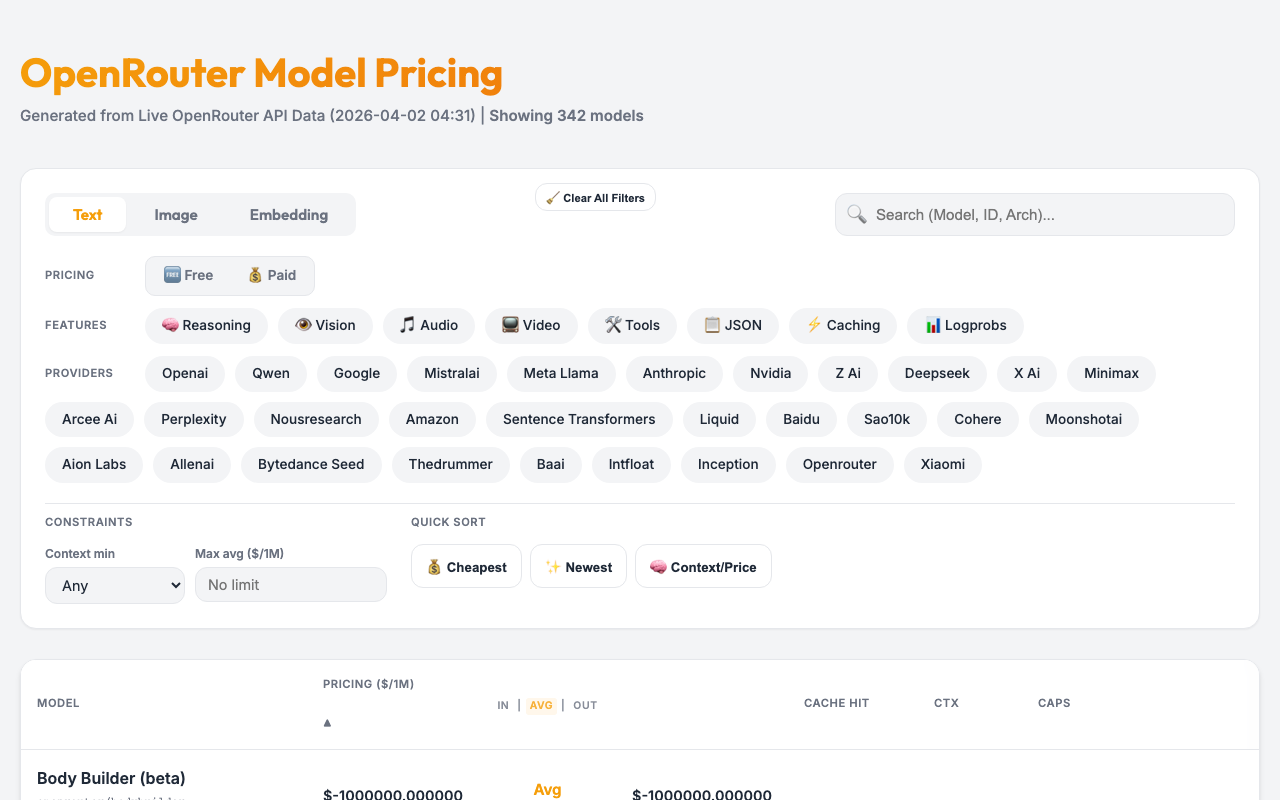
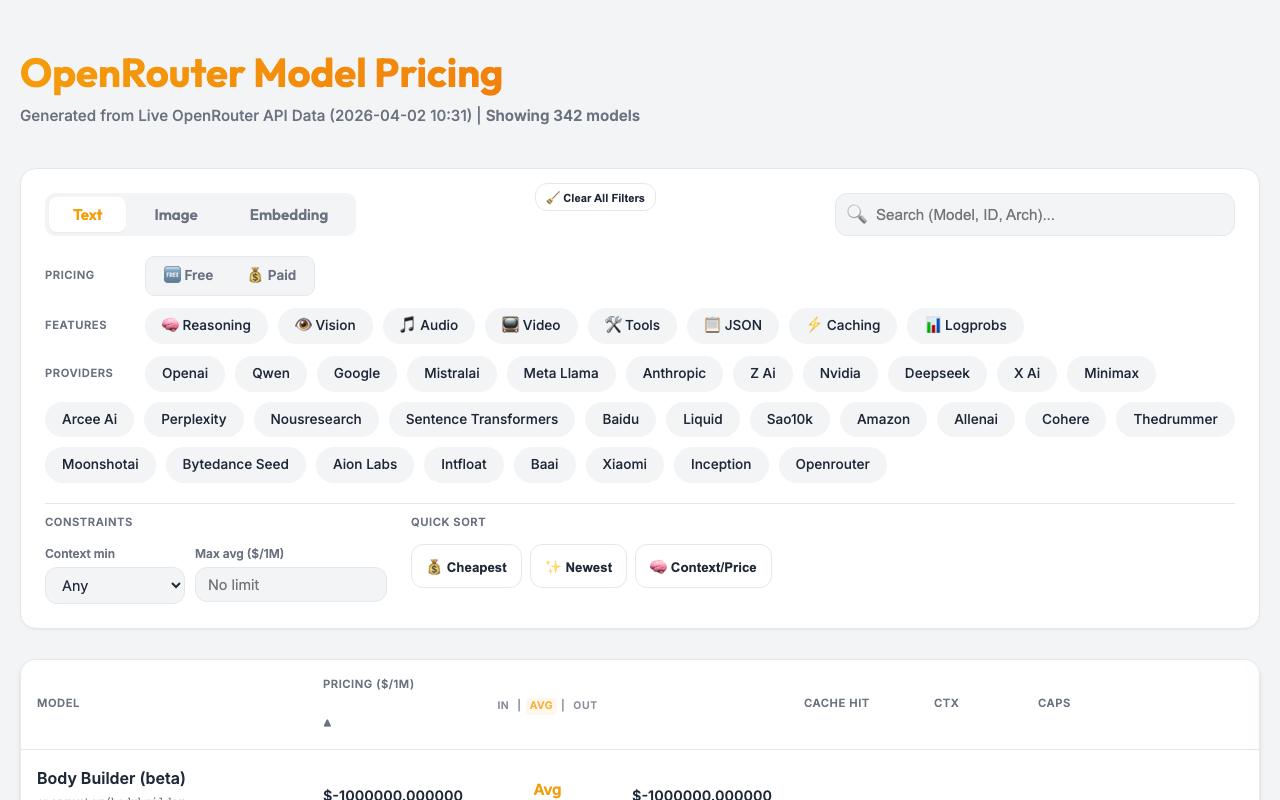
chore: automated pricing update (2026-04-02 10:31:20)
🔄 Changed Models (4): google/gemini-2.5-flash-lite-preview-09-2025, inception/mercury-coder, mistralai/mistral-small-24b-instruct-2501, moonshotai/kimi-k2.5

diff --git a/docs/index.html b/docs/index.html
@@ -634,7 +634,7 @@
     <div class="container">
         <header>
             <h1>OpenRouter Model Pricing</h1>
-            <div class="meta">Generated from Live OpenRouter API Data (2026-04-02 04:31)</div>
+            <div class="meta">Generated from Live OpenRouter API Data (2026-04-02 10:31)</div>
         </header>
 
         <div class="controls">
@@ -3264,13 +3264,13 @@
         "instruct_type": null
       },
       "pricing": {
-        "prompt": "0.0000004005",
-        "completion": "0.000001998",
-        "input_cache_read": "0.0000002025"
+        "prompt": "0.0000004",
+        "completion": "0.00000199",
+        "input_cache_read": "0.0000002"
       },
       "top_provider": {
         "context_length": 262144,
-        "max_completion_tokens": 262144,
+        "max_completion_tokens": 65535,
         "is_moderated": false
       },
       "per_request_limits": null,
@@ -7259,7 +7259,7 @@
       },
       "top_provider": {
         "context_length": 1048576,
-        "max_completion_tokens": 65536,
+        "max_completion_tokens": 65535,
         "is_moderated": false
       },
       "per_request_limits": null,
@@ -11562,7 +11562,7 @@
         "frequency_penalty": null
       },
       "knowledge_cutoff": "2025-01-31",
-      "expiration_date": null
+      "expiration_date": "2026-04-15"
     },
     {
       "id": "meta-llama/llama-guard-4-12b",
@@ -14293,7 +14293,6 @@
       "per_request_limits": null,
       "supported_parameters": [
         "frequency_penalty",
-        "logit_bias",
         "max_tokens",
         "min_p",
         "presence_penalty",
@@ -14302,8 +14301,6 @@
         "seed",
         "stop",
         "temperature",
-        "tool_choice",
-        "tools",
         "top_k",
         "top_p"
       ],
@@ -19606,7 +19603,7 @@
     }
   ]
 };
-        window.providerOptions = ['openai', 'qwen', 'google', 'mistralai', 'meta-llama', 'anthropic', 'nvidia', 'z-ai', 'deepseek', 'x-ai', 'minimax', 'arcee-ai', 'perplexity', 'nousresearch', 'amazon', 'sentence-transformers', 'liquid', 'baidu', 'sao10k', 'cohere', 'moonshotai', 'aion-labs', 'allenai', 'bytedance-seed', 'thedrummer', 'baai', 'intfloat', 'inception', 'openrouter', 'xiaomi', 'relace', 'thenlper', 'inflection', 'rekaai', 'stepfun', 'microsoft', 'morph', 'eleutherai', 'gryphe', 'alpindale', 'deepcogito', 'anthracite-org', 'nex-agi', 'undi95', 'upstage', 'ai21', 'mancer', 'meituan', 'writer', 'essentialai', 'kwaipilot', 'bytedance', 'alibaba', 'switchpoint', 'prime-intellect', 'tencent', 'tngtech', 'cognitivecomputations', 'alfredpros', 'ibm-granite'];
+        window.providerOptions = ['openai', 'qwen', 'google', 'mistralai', 'meta-llama', 'anthropic', 'z-ai', 'nvidia', 'deepseek', 'x-ai', 'minimax', 'arcee-ai', 'perplexity', 'nousresearch', 'sentence-transformers', 'baidu', 'liquid', 'sao10k', 'amazon', 'allenai', 'cohere', 'thedrummer', 'moonshotai', 'bytedance-seed', 'aion-labs', 'intfloat', 'baai', 'xiaomi', 'inception', 'openrouter', 'stepfun', 'rekaai', 'morph', 'microsoft', 'relace', 'inflection', 'thenlper', 'ibm-granite', 'nex-agi', 'deepcogito', 'tencent', 'alfredpros', 'alpindale', 'alibaba', 'upstage', 'prime-intellect', 'gryphe', 'tngtech', 'meituan', 'essentialai', 'eleutherai', 'switchpoint', 'mancer', 'undi95', 'writer', 'kwaipilot', 'anthracite-org', 'bytedance', 'cognitivecomputations', 'ai21'];
         let currentTab = 'text';
         let sortKey = 'price_avg';
         let sortAsc = true;
